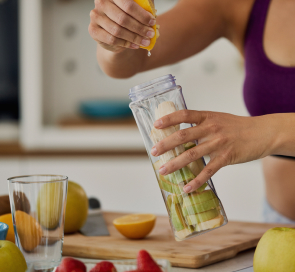
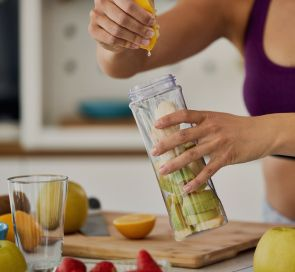
optimize img

diff --git a/src/partials/order.html b/src/partials/order.html
@@ -84,7 +84,7 @@
               "
             />
             <img
-              src="img/mobile/oder-mobile@1x.jpg"
+              src="img/mobile/order-mobile@1x.jpg"
               alt="unrecognizable sportswoman using lemon while making fruit smoothie home"
               width="536"
               height="352"
